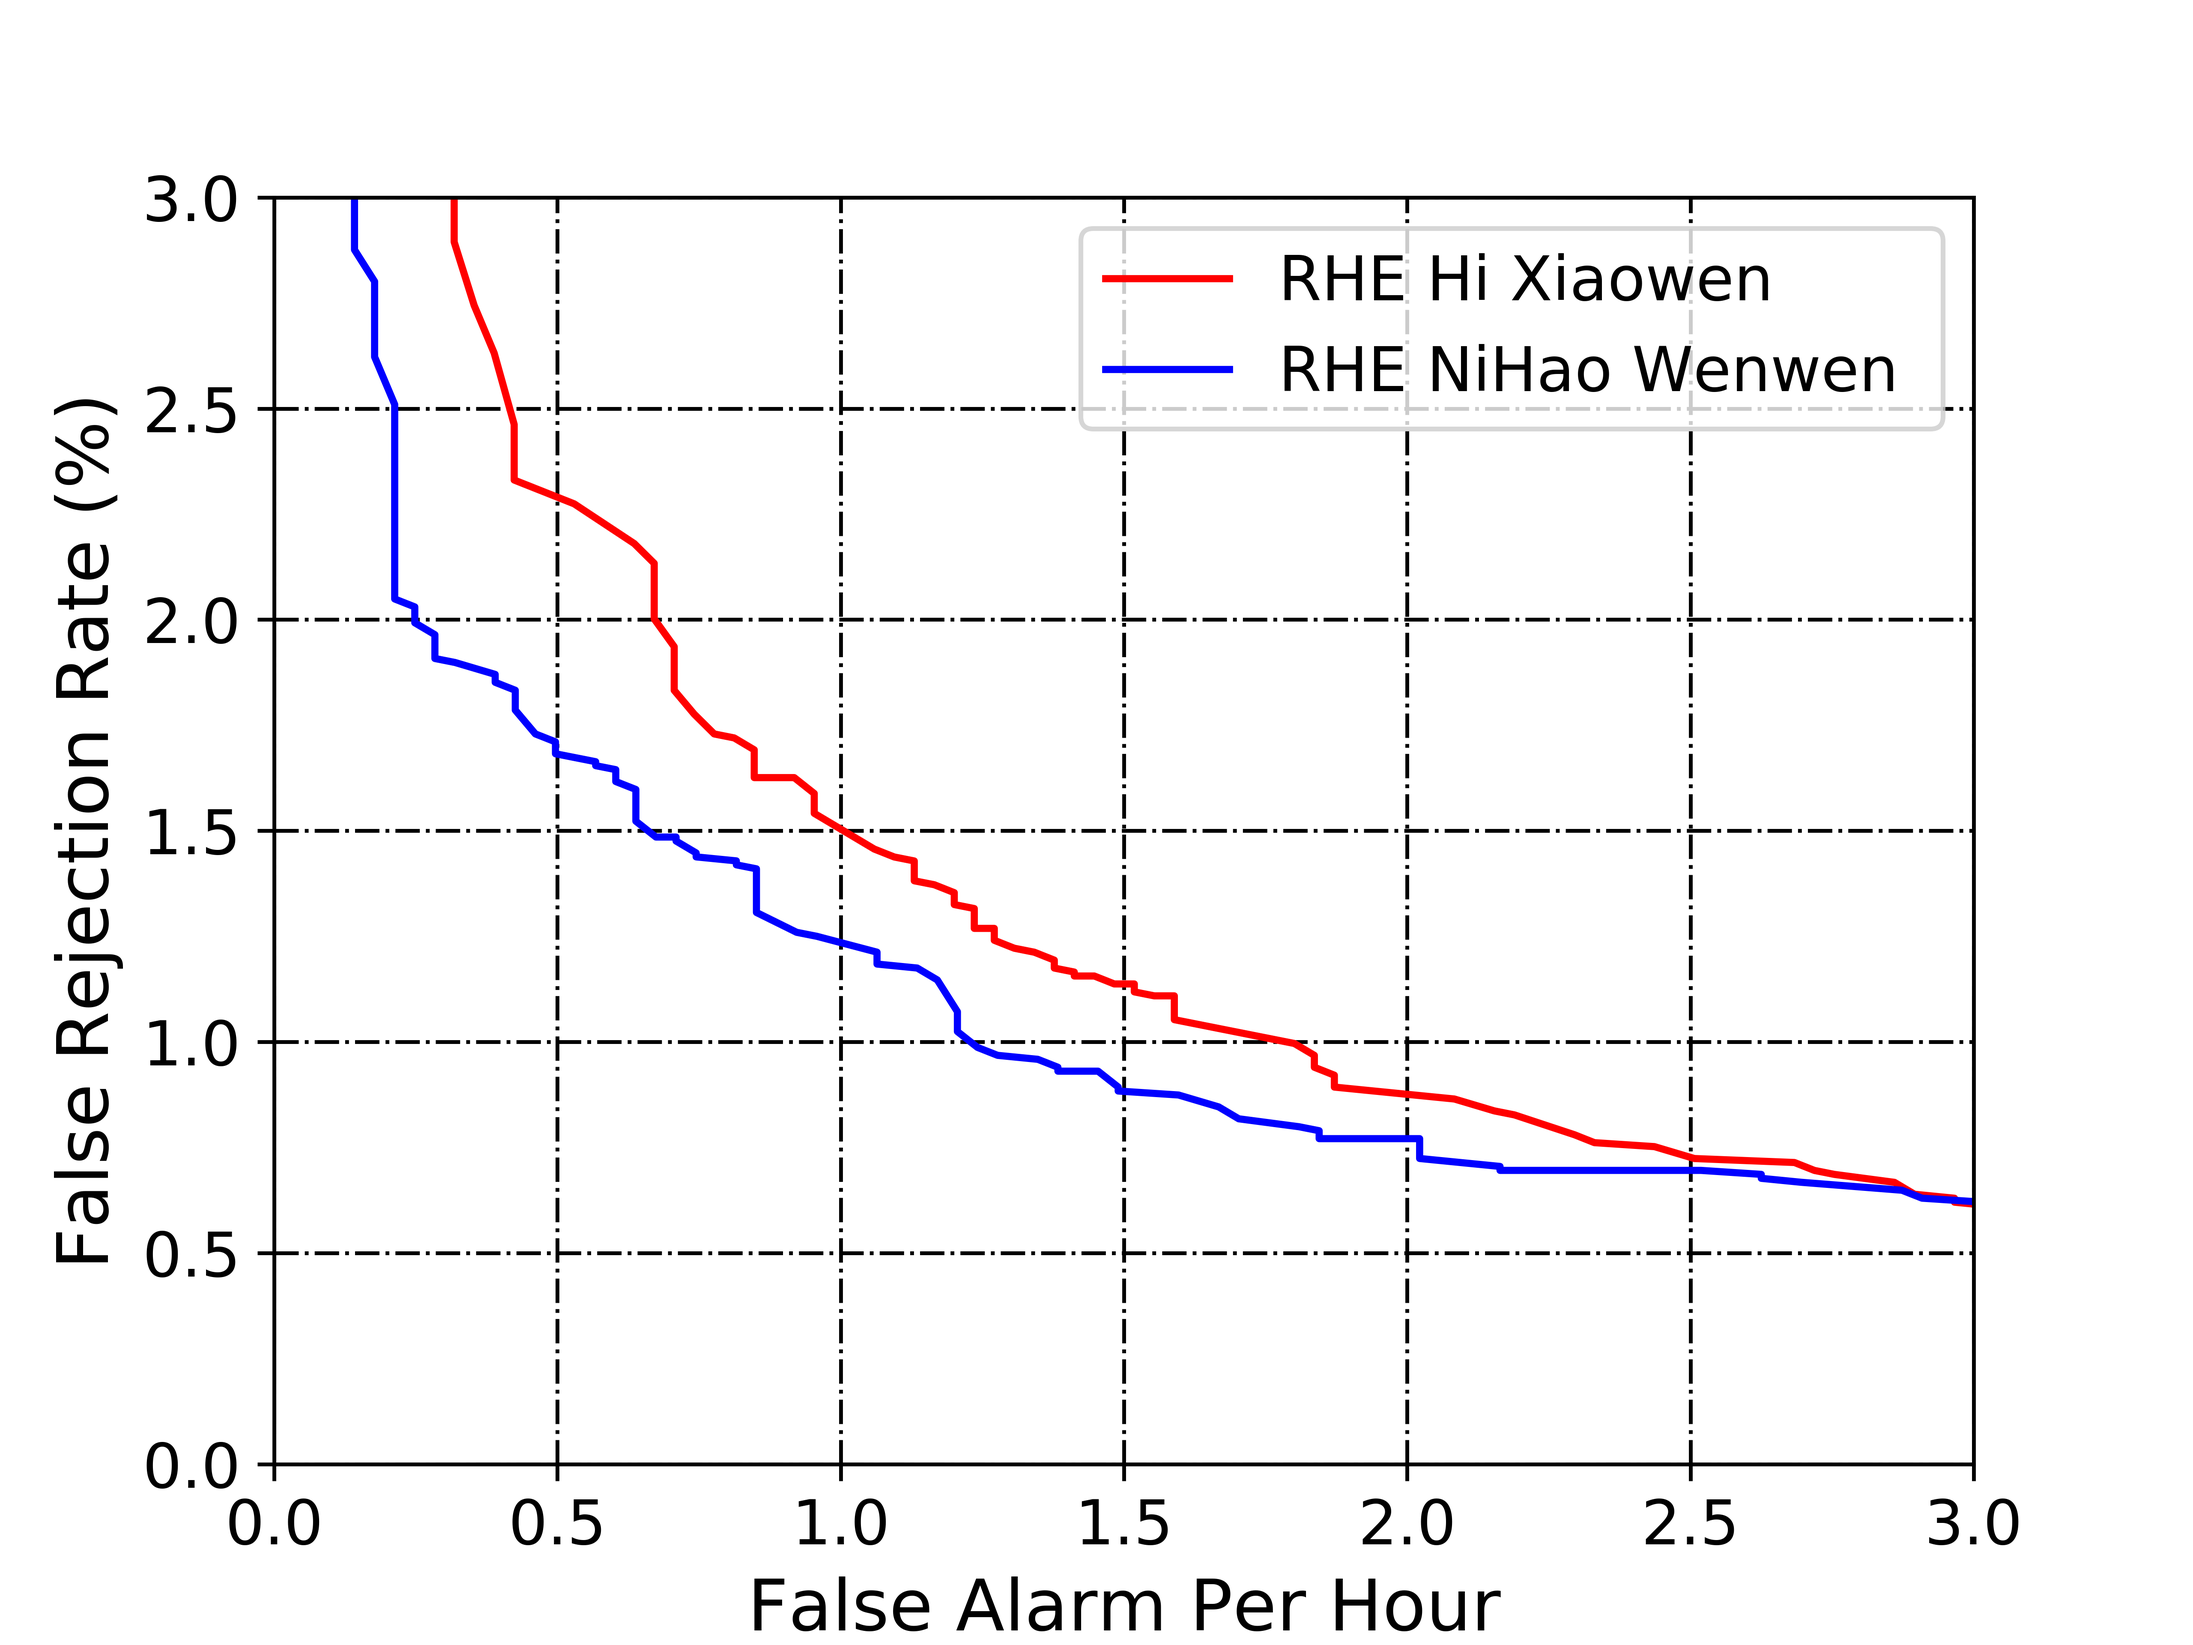
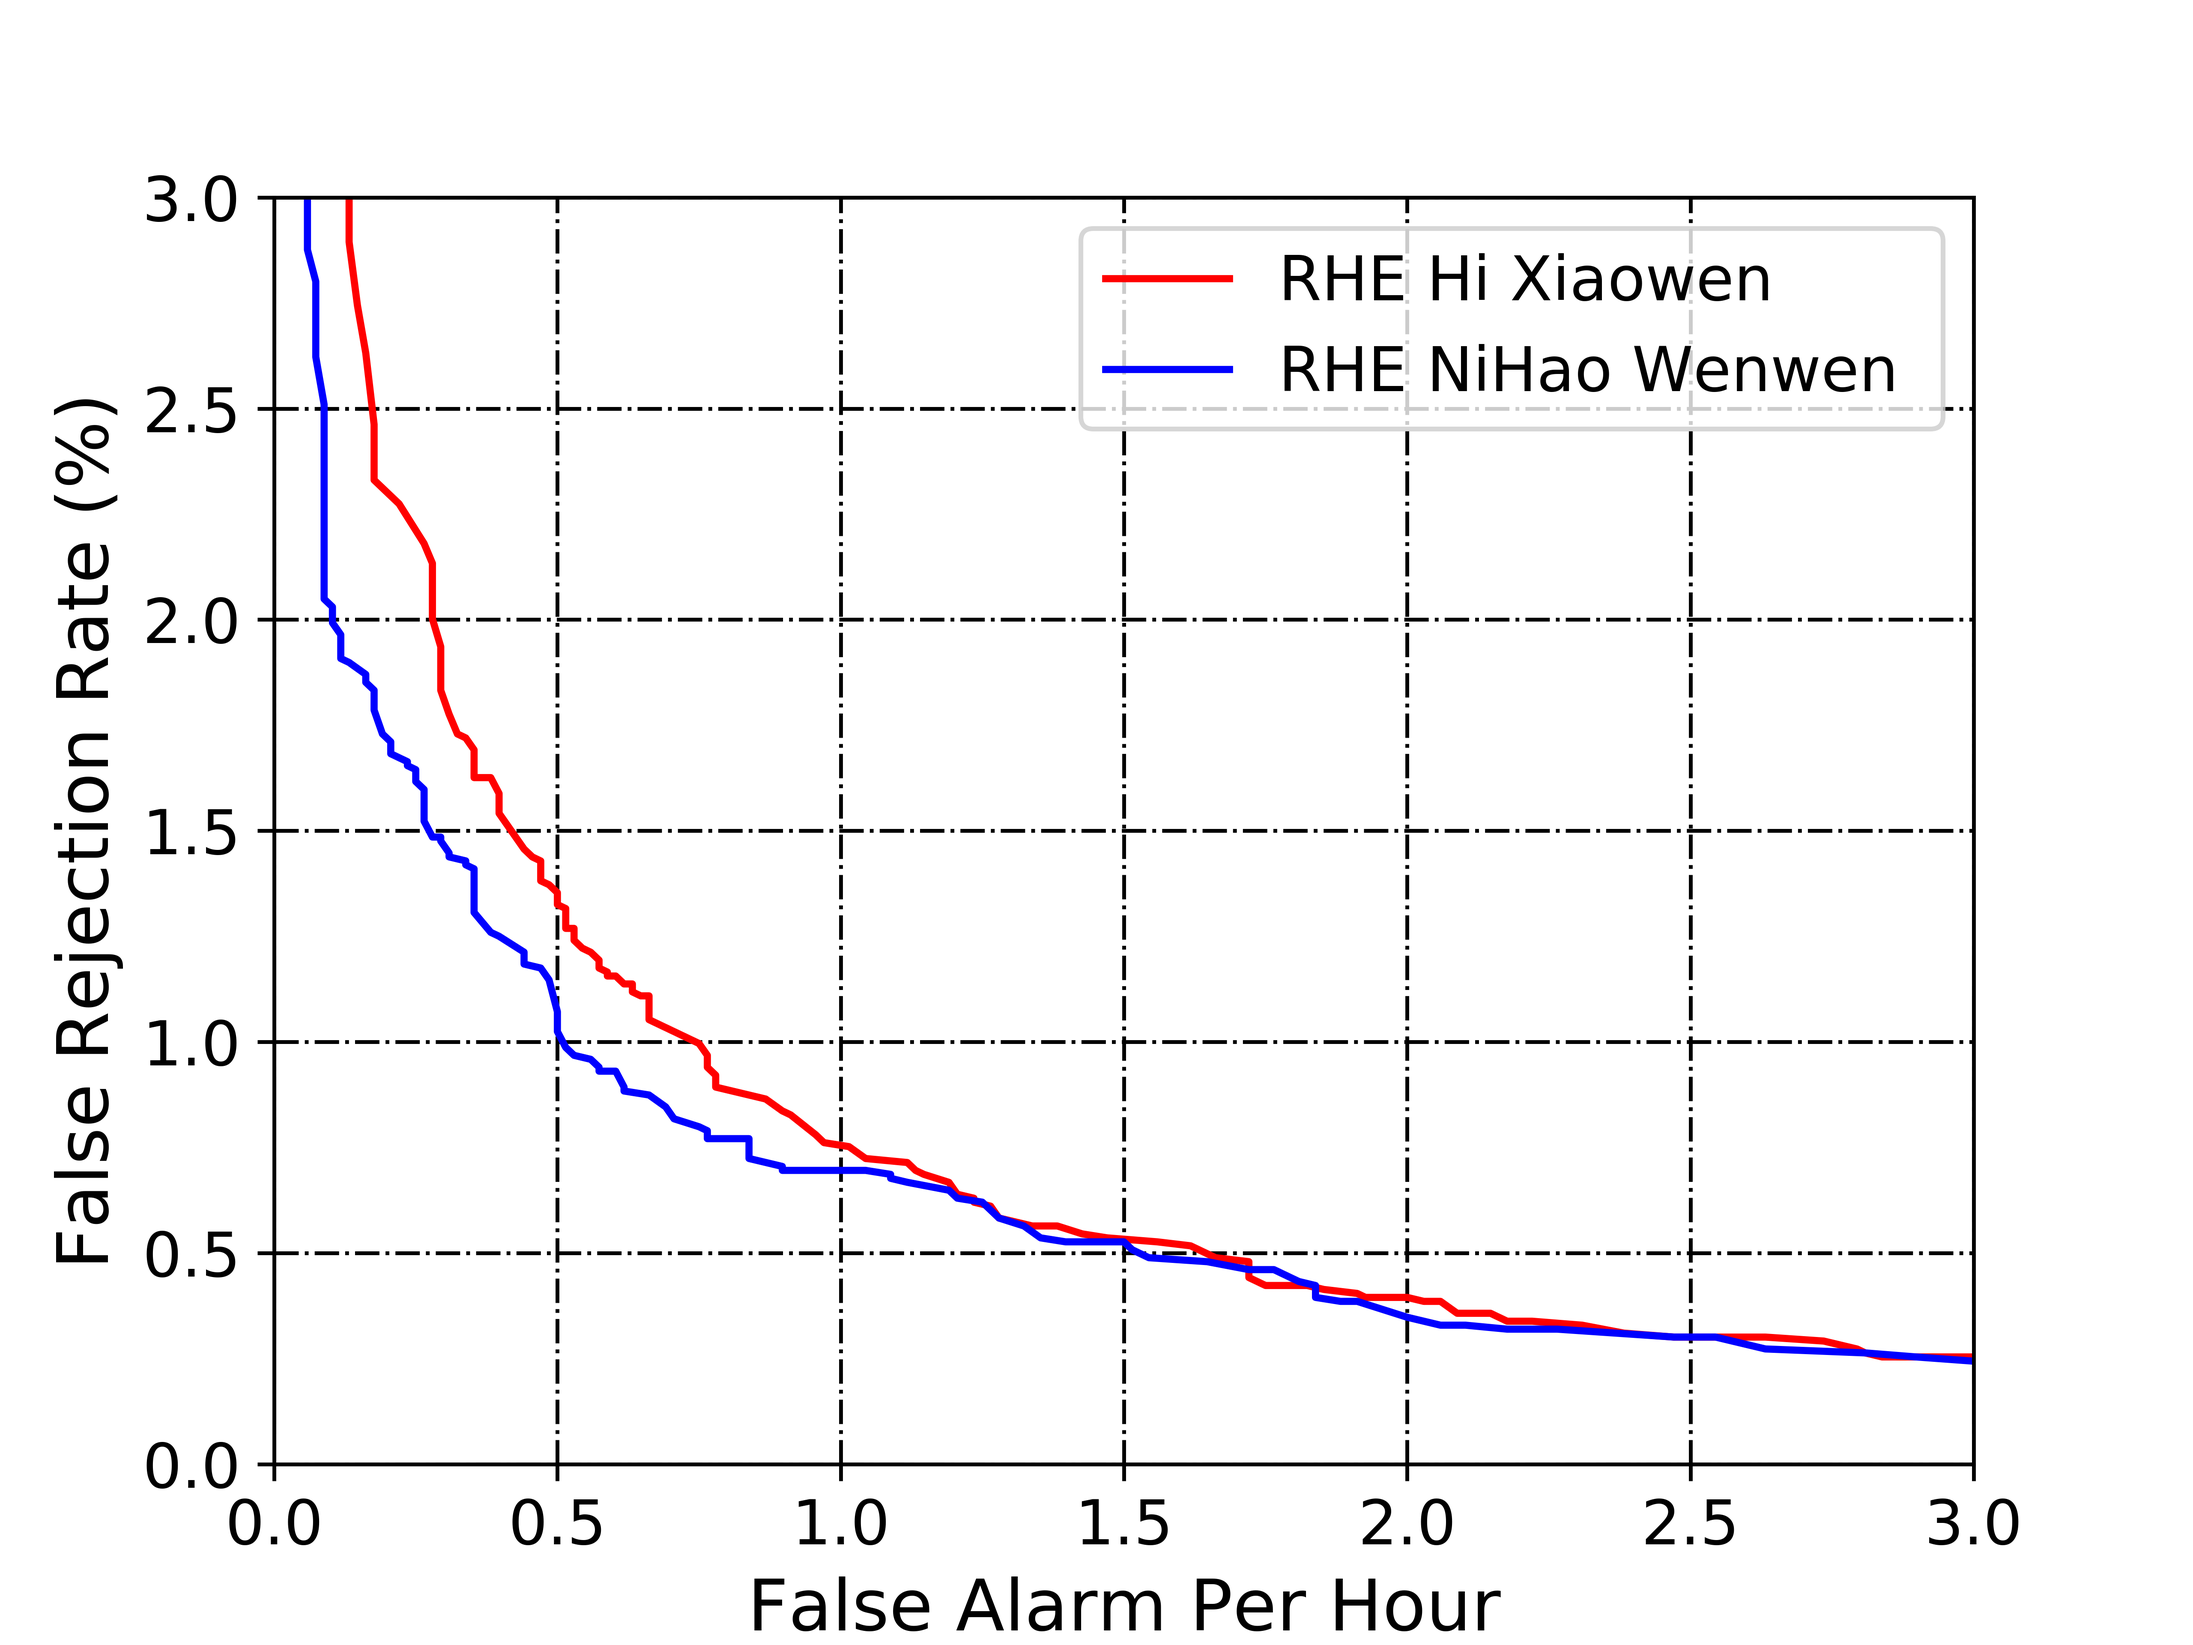
update

diff --git a/README.md b/README.md
@@ -28,8 +28,8 @@ Using default configuration in the paper and without any data angumentation:
 <img src="./det_curves/gru_rhe.png" width = "300" alt="DET Curves" align=center />
 
 FRRs with FAR fixed at once per hour:
-* Hi Xiaowen: 0.62%
-* Nihao Wenwen: 0.50%  
+* Hi Xiaowen: 0.75%
+* Nihao Wenwen: 0.70%  
 ## TODO: 
 * Data Augmentation experiment
 * Further tuning of hyperparameters on the public dataset
